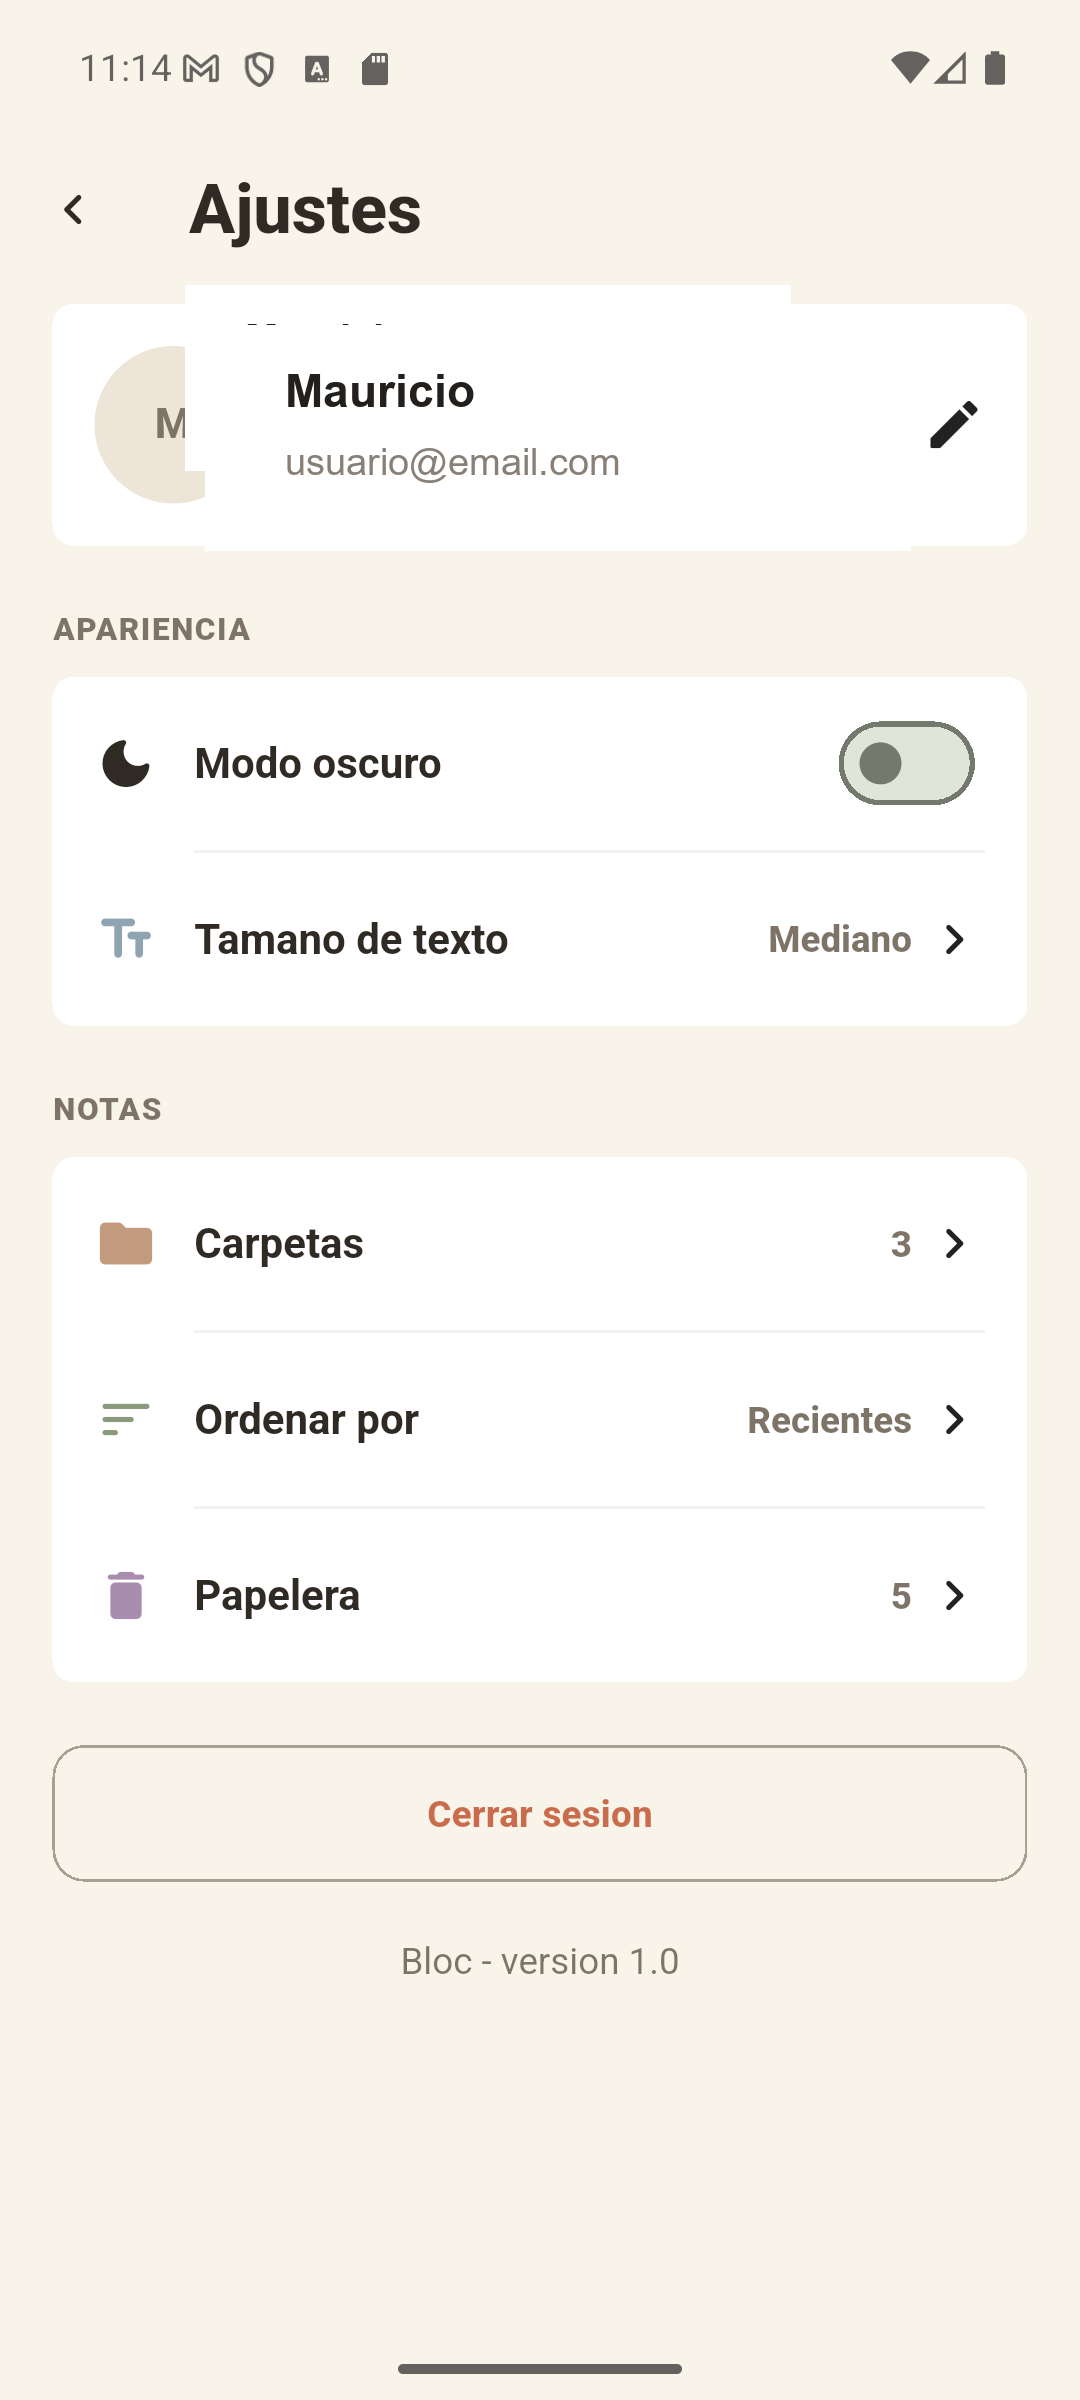
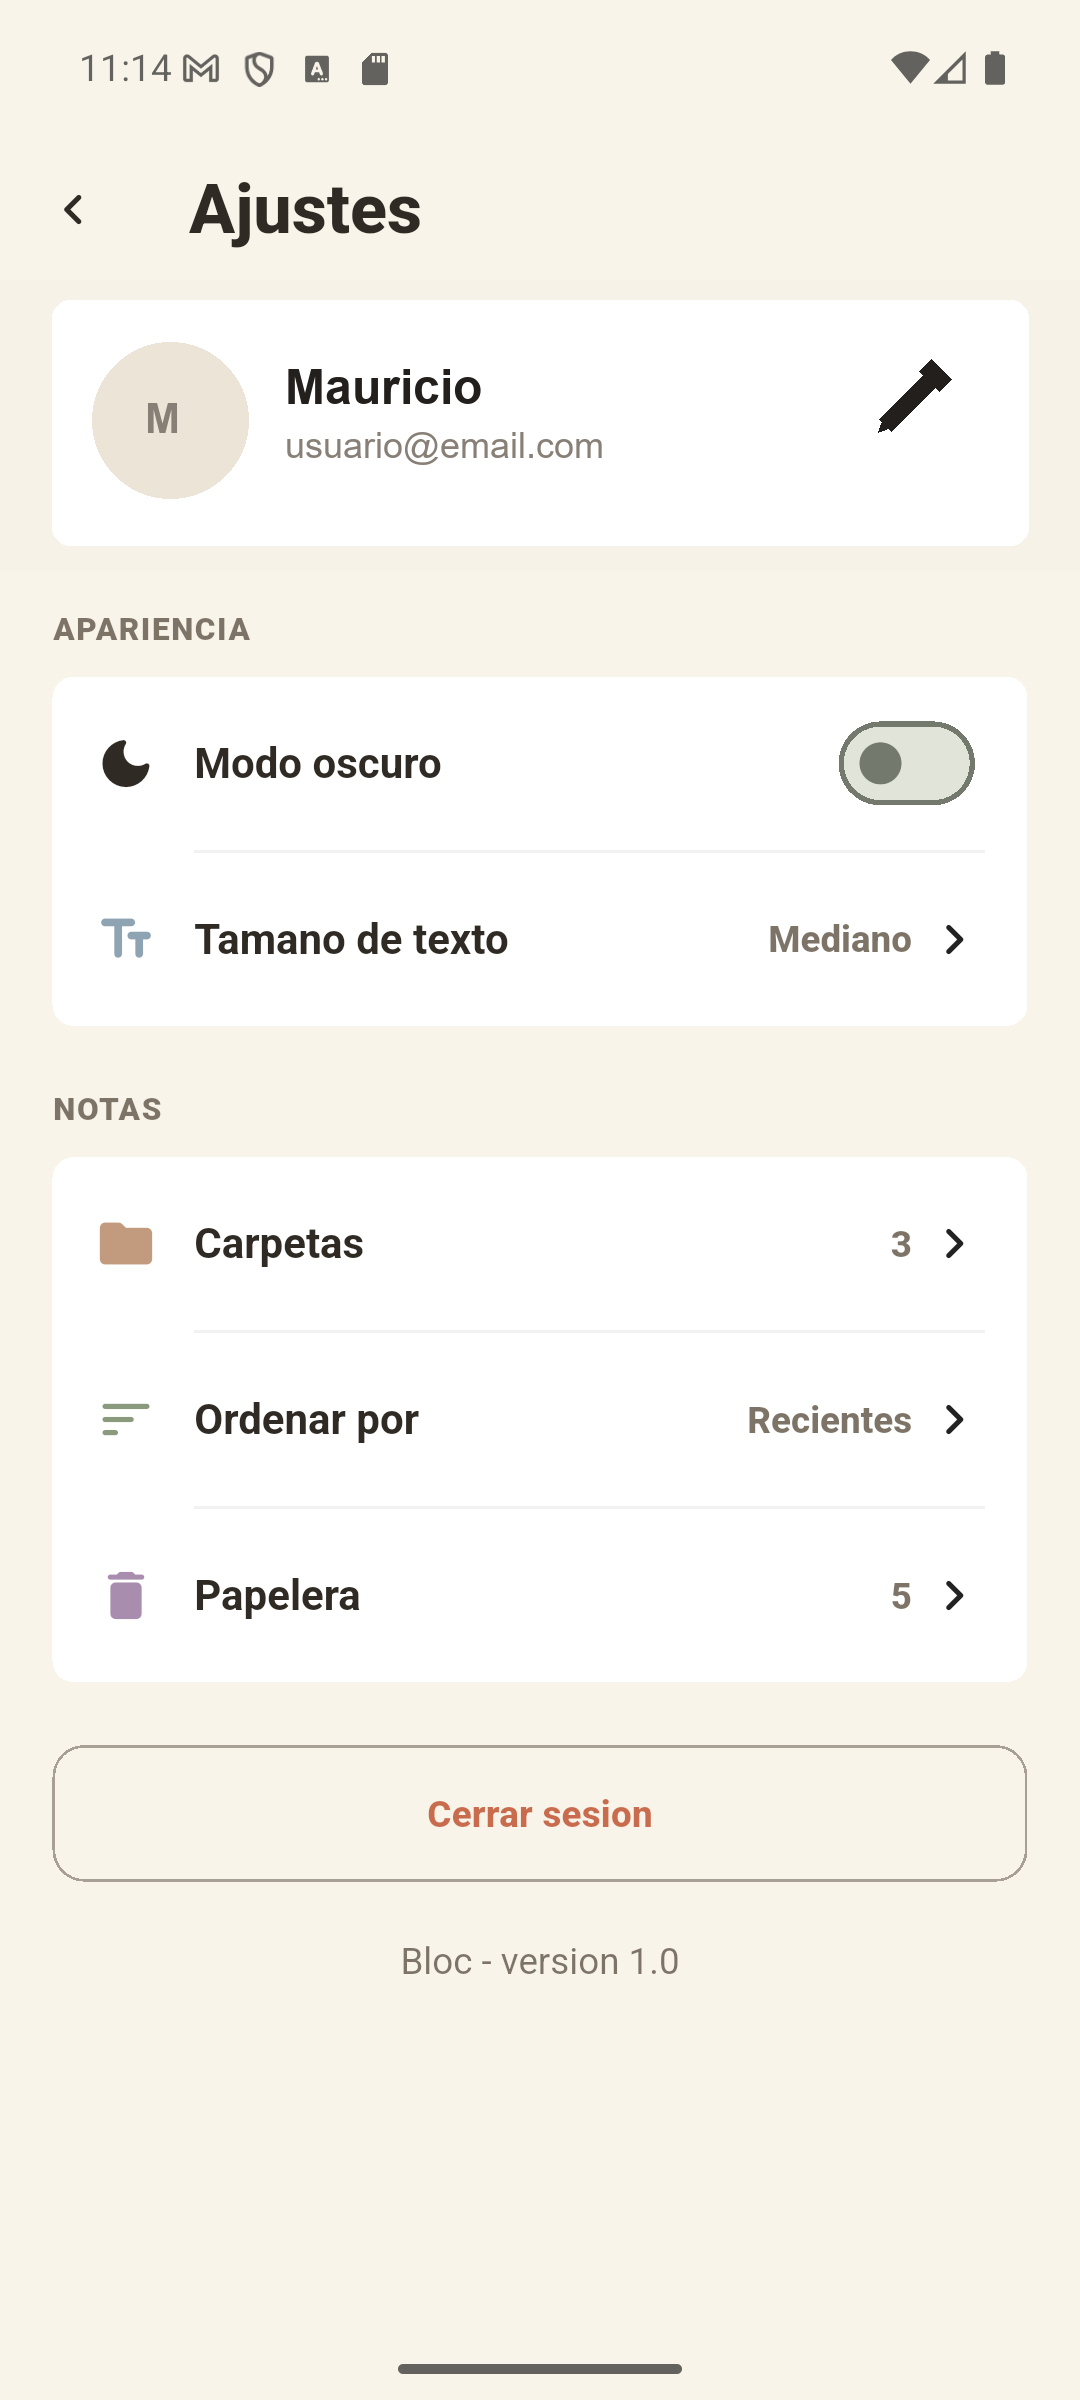
Polish README and license

Changed region(s): [[0.275, 0.1562, 0.55, 0.2188], [0.1222, 0.125, 0.2444, 0.2188], [0.825, 0.1562, 0.9167, 0.1875]]

diff --git a/README.md b/README.md
@@ -20,7 +20,7 @@ Fases completadas funcionalmente:
 
 Fase actual:
 
-- Fase 6: Documentacion y GitHub.
+- Fase 7: Testing y build Android.
 
 ## Caracteristicas
 
@@ -276,7 +276,7 @@ Flujos validados manualmente:
 
 Siguiente fase:
 
-- Fase 6: README final con capturas reales, diagrama, documentacion completa y GitHub.
+- Fase 7: pruebas adicionales, build Android APK/AAB y revision final.
 
 Despues:
 
@@ -291,4 +291,5 @@ Pendientes funcionales futuros:
 
 ## Licencia
 
-Proyecto en desarrollo. La licencia se definira antes de publicarlo en GitHub.
+Este proyecto esta publicado bajo licencia MIT. Consulta el archivo
+[`LICENSE`](LICENSE) para ver los terminos completos.

diff --git a/docs/ROADMAP.md b/docs/ROADMAP.md
@@ -70,7 +70,7 @@
 - [x] Imagenes en notas.
 - [x] Miniaturas en Home/Busqueda.
 - [ ] Build Android.
-- [ ] README final con capturas.
+- [x] README final con capturas.
 
 ## Fase 6 - Documentacion y GitHub
 
@@ -79,8 +79,8 @@
 - [x] Diagrama de arquitectura.
 - [x] Instrucciones completas de instalacion.
 - [x] Roadmap y pendientes actualizados.
-- [ ] Primer commit organizado.
-- [ ] Repositorio remoto en GitHub.
+- [x] Primer commit organizado.
+- [x] Repositorio remoto en GitHub.
 
 ## Fase 7 - Testing y build
 